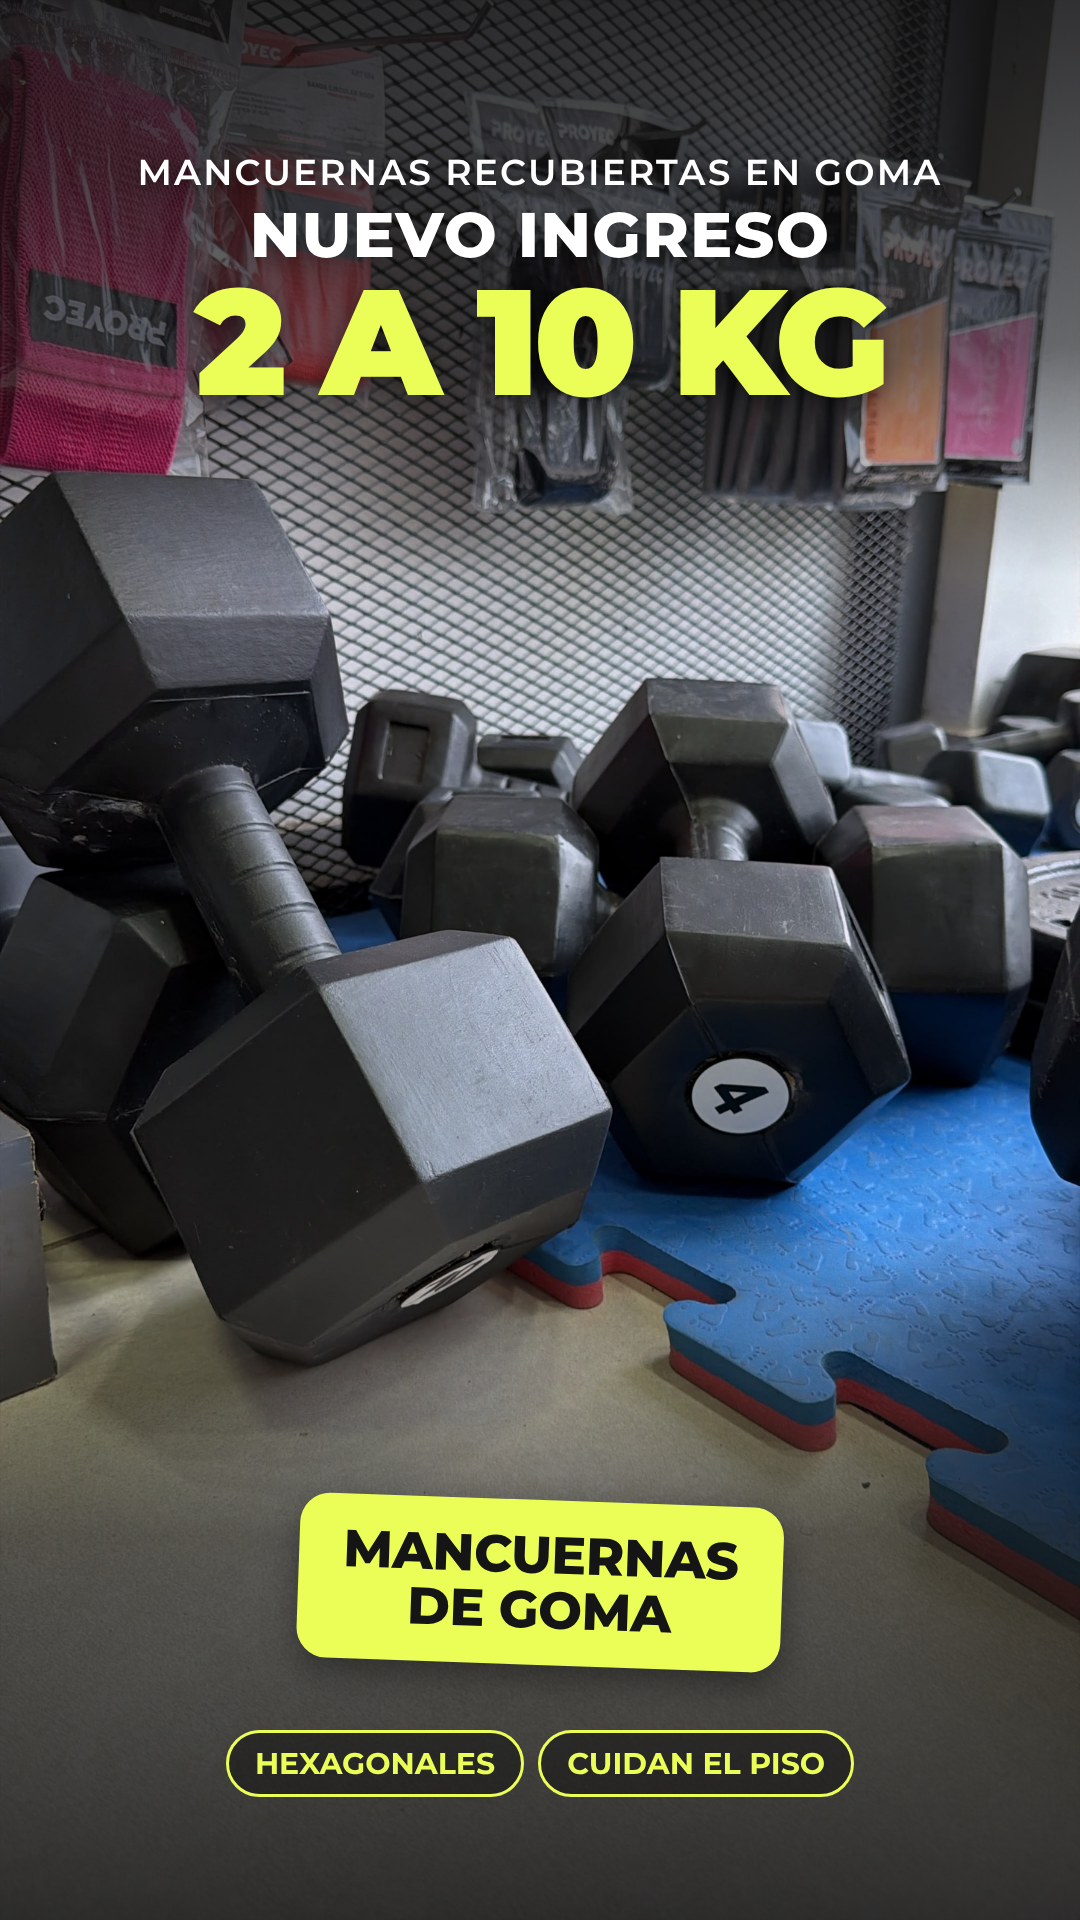
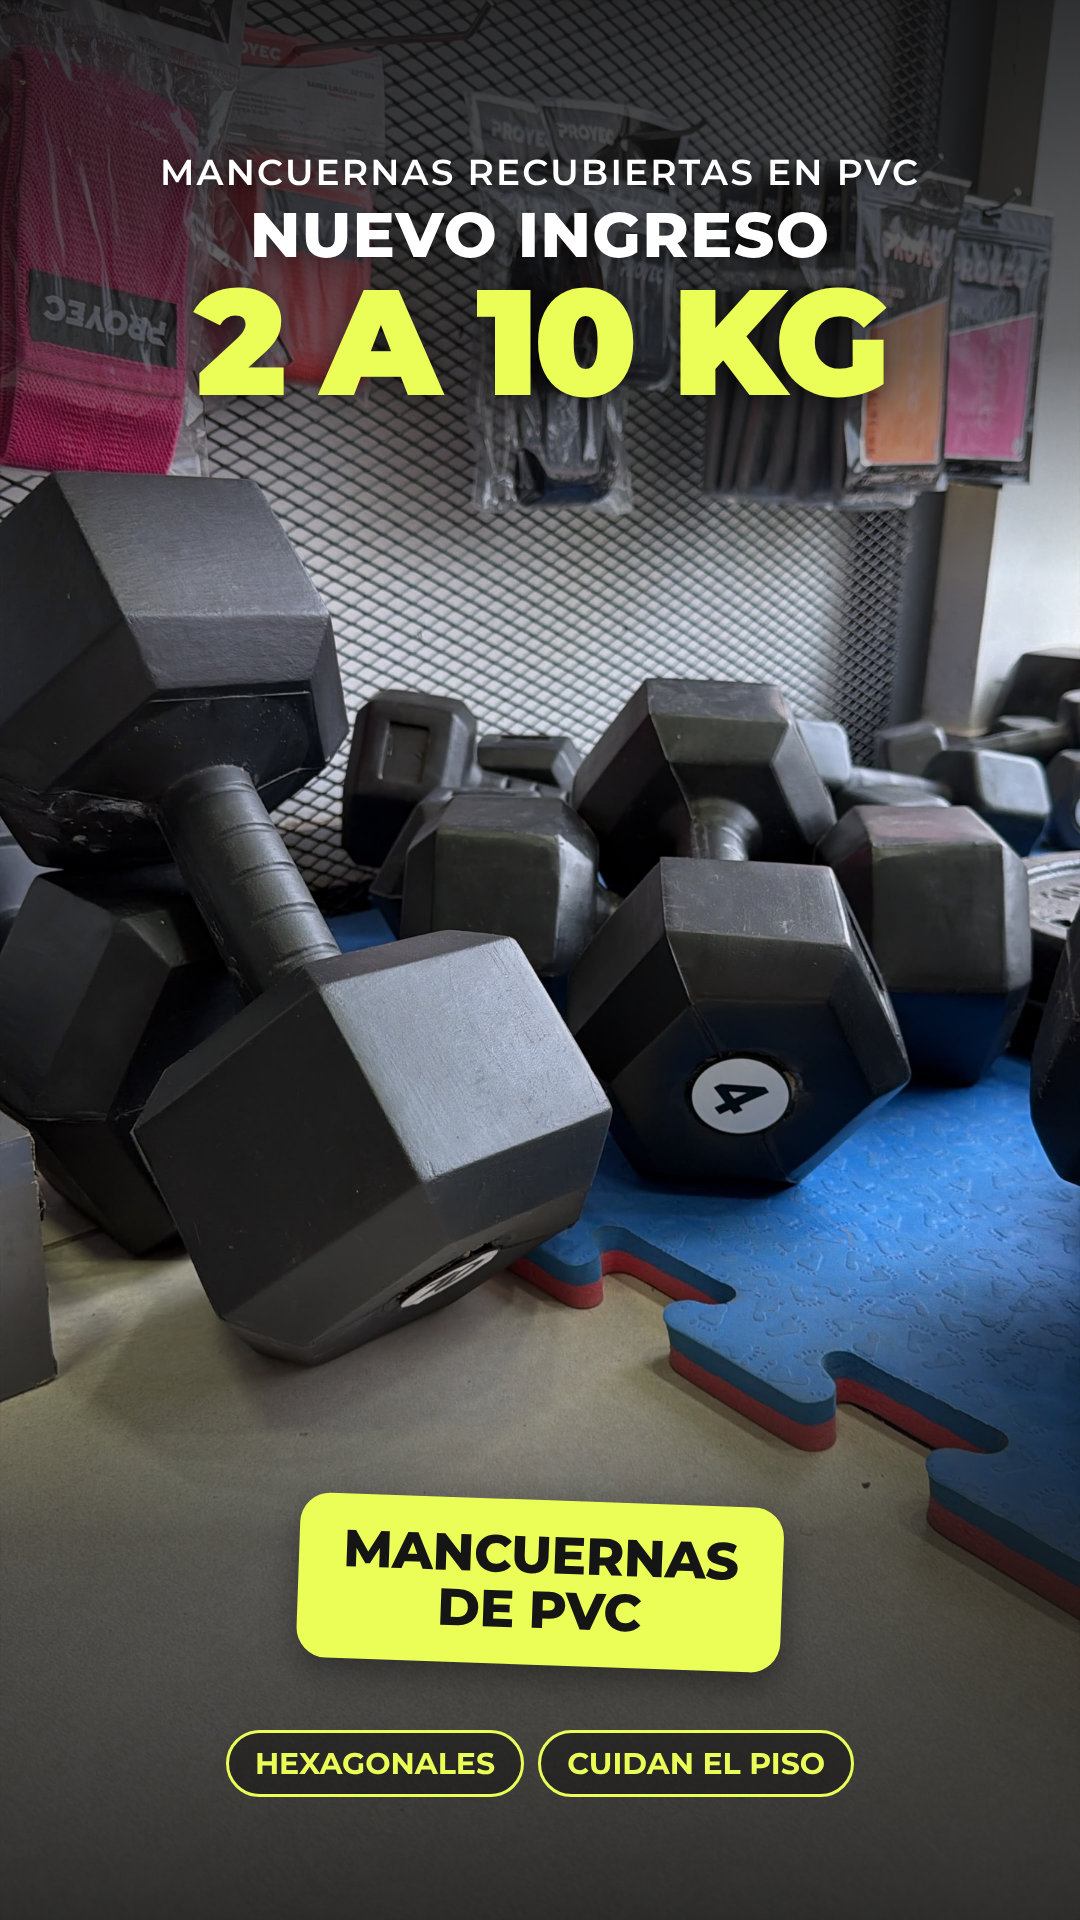
Historias equipamiento Wolf: mancuernas de PVC
Claude-Session: https://claude.ai/code/session_014Xof4dSmfPa2gf1dmKRBzh

Changed region(s): [[0.1222, 0.0625, 0.8556, 0.0938], [0.3667, 0.8125, 0.6111, 0.875]]

diff --git a/wolf-equipamiento/historias.html b/wolf-equipamiento/historias.html
@@ -54,9 +54,9 @@
 </section>
 <section class="story" id="s2" style="background:#2b2a28">
   <img class="full" src="img/goma.jpg" style="object-position:50% 50%"><div class="shade"></div>
-  <div class="kicker" style="top:150px">Mancuernas recubiertas en goma</div>
+  <div class="kicker" style="top:150px">Mancuernas recubiertas en PVC</div>
   <div class="flavor" style="top:205px;font-size:150px"><small>Nuevo ingreso</small>2 a 10 kg</div>
-  <div class="box" style="top:1500px;transform:translateX(-50%) rotate(2deg);font-size:52px">Mancuernas<br>de goma</div>
+  <div class="box" style="top:1500px;transform:translateX(-50%) rotate(2deg);font-size:52px">Mancuernas<br>de PVC</div>
   <div class="pills" style="top:1730px"><span>Hexagonales</span><span>Cuidan el piso</span></div>
 </section>
 <section class="story" id="s3" style="background:#e6e6e4">
